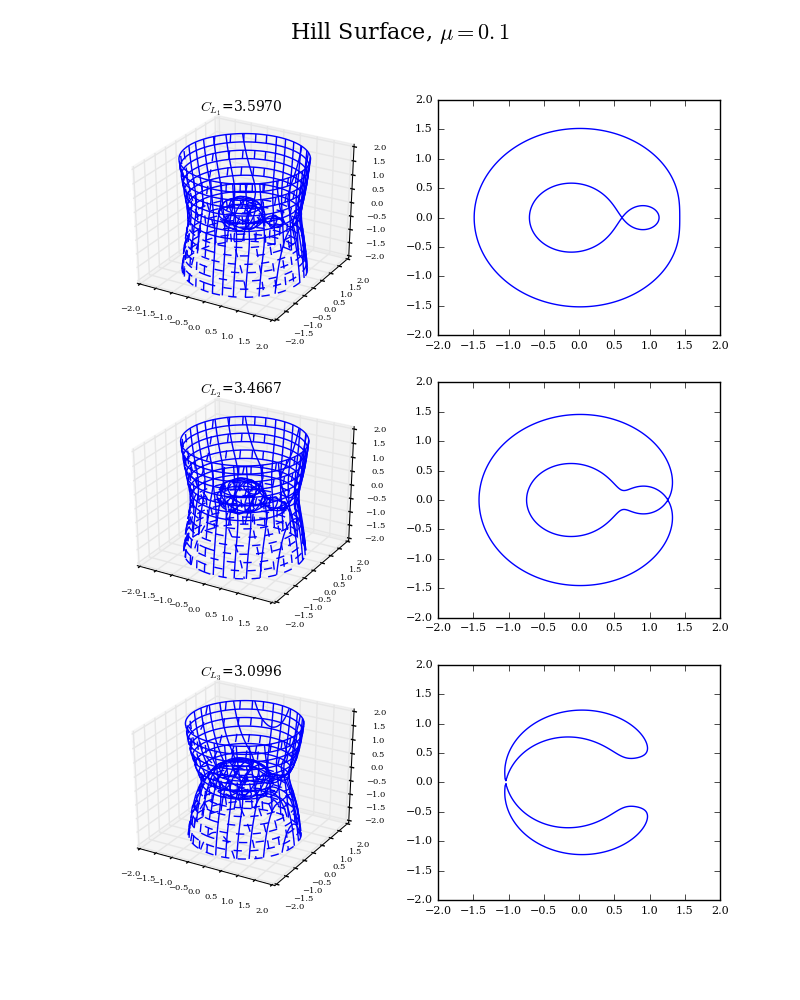
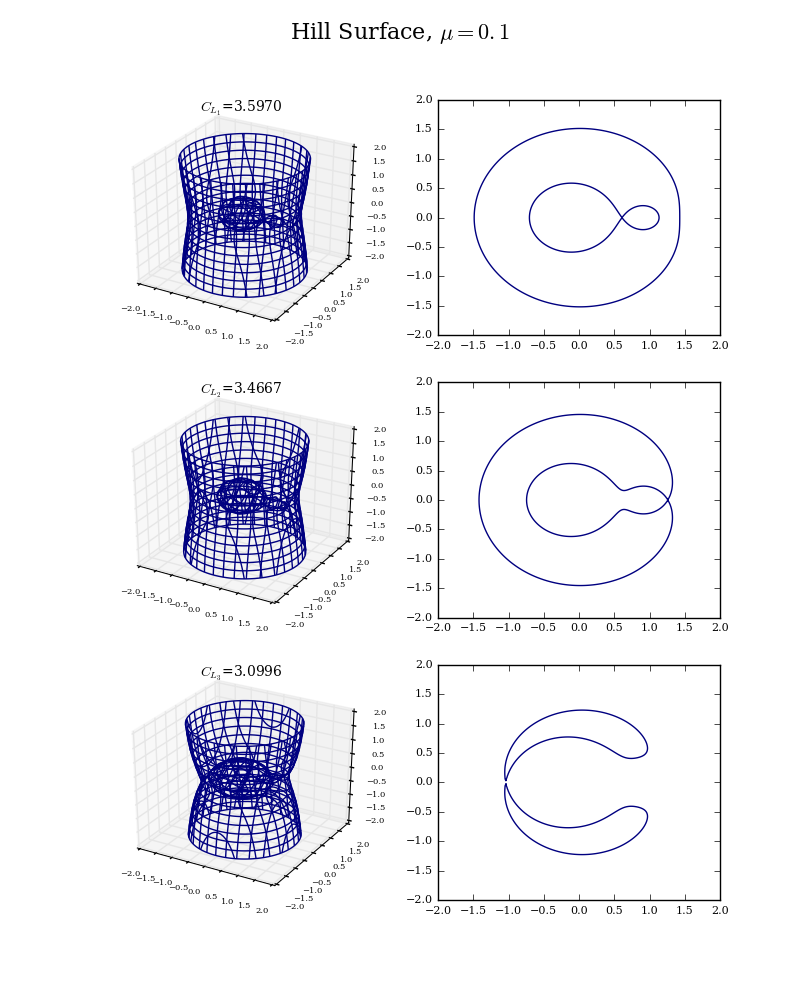
Cj surface

diff --git a/src/hill_surf.py b/src/hill_surf.py
@@ -34,7 +34,7 @@ def plot_implicit(ax, fn, bbox=(-2.5, 2.5)):
     fn  ...implicit function (plot where fn==0)
     bbox ..the x,y,and z limits of plotted interval"""
     xmin, xmax, ymin, ymax, zmin, zmax = bbox*3
-    A = np.linspace(xmin, xmax, 150)  # resolution of the contour
+    A = np.linspace(xmin, xmax, 100)  # resolution of the contour
     B = np.linspace(xmin, xmax, 15)   # number of slices
     A1, A2 = np.meshgrid(A, A)  # grid on which the contour is plotted
     for z in B:  # plot contours in the XY plane
@@ -107,7 +107,7 @@ for i in range(3):
                  bbox=(-2.0, 2.0), levels=[Hill_Surf_Cj[i]])
 
 fig1.suptitle('Hill Surface, $\mu{}=0.1$', fontsize=16)
-fig1.savefig('hill_surf.pdf')
+fig1.savefig('hill_surf.png')
 
 
 # plot C_{J} contour
@@ -121,7 +121,26 @@ plot_contour(ax2, Hill_Surf_Cj_xy(Hill_Surf_n, Hill_Surf_Miu),
 ax2.set_xlabel('$x$', fontsize=14)
 ax2.set_ylabel('$y$', fontsize=14)
 ax2.set_title('$C_{J}$ Contour, $\mu{}=0.1$', fontsize=16)
-fig2.savefig('cj_contour.pdf')
+fig2.savefig('cj_contour.png')
+
+
+# plot C_{J} surface
+fig3 = plt.figure()
+ax3 = fig3.add_subplot(111, projection='3d')
+bbox = (-2.0, 2.0)
+A = np.linspace(bbox[0], bbox[1], 200)
+X, Y = np.meshgrid(A, A)
+Z = np.log((Hill_Surf_Cj_xy(Hill_Surf_n, Hill_Surf_Miu))(X, Y))
+surf = ax3.plot_surface(X, Y, Z, rstride=1, cstride=1, cmap=plt.cm.coolwarm,
+                        linewidth=0, antialiased=False)
+cbar = plt.colorbar(surf, shrink=0.5, aspect=8)
+cbar.ax.tick_params(labelsize=8)
+ax3.set_xlabel('$x$')
+ax3.set_ylabel('$y$')
+ax3.set_zlabel('$log(z)$')
+ax3.tick_params(labelsize=8)
+ax3.set_title('$C_{J}$ Surface, $\mu{}=0.1$')
+fig3.savefig('cj_surface.png')
 
 # show figures
 plt.show()
